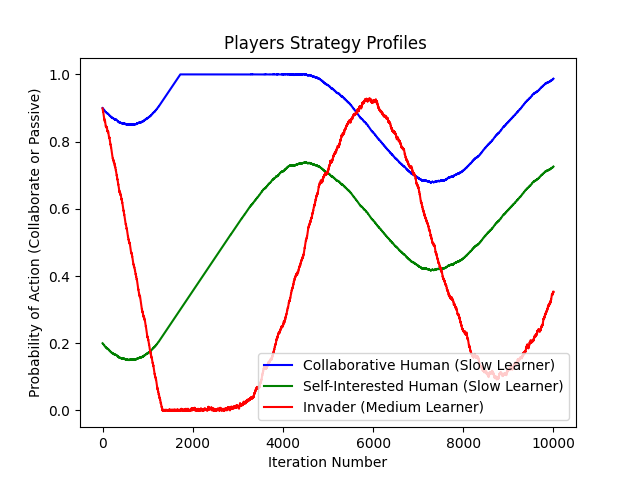
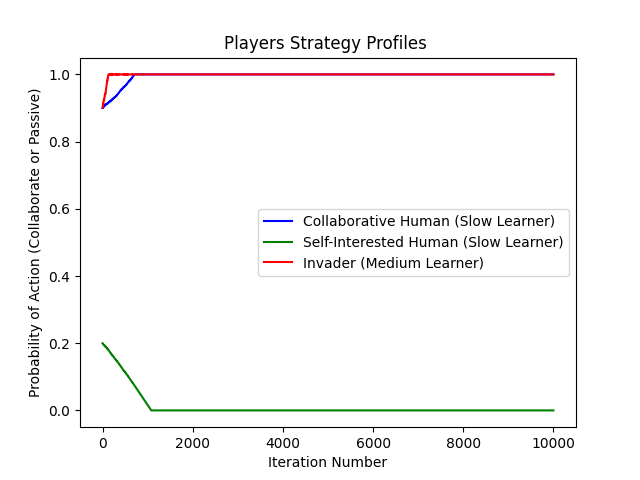
Update images

diff --git a/Population-Game.py b/Population-Game.py
@@ -9,23 +9,14 @@ from Classes.InvaderGamePayoffMatrix import InvaderGamePayoffMatrix
 from Classes.PlayerInformation import PlayerInformation
 
 # Human Focused Variables
-#VALUE = 15 # Resource gain
-#COST = 10 # Cost of Self Interest
-#SYNERGY = 1.5 # Synergy Factor
-
-## Invader Focused Variables
-#DAMAGE = 20 # Damage from Invader
-#ATTACK = 5 # Cost of Attacking from Invader
-
-# Human Focused Variables
-VALUE = 10 # Resource gain
-COST = 15 # Cost of Self Interest
+VALUE = 15 # Resource gain
+COST = 10 # Cost of Self Interest
 SYNERGY = 1.5 # Synergy Factor
 
 # Invader Focused Variables
-DAMAGE = 5  # Damage from Invader
-ATTACK = 10 # Cost of Attacking from Invader
-BLOCK = 4 # Blocked Damage
+DAMAGE = 20 # Damage from Invader
+ATTACK = 5 # Cost of Attacking from Invader
+BLOCK = 2
 
 # Simulation Settings 
 NUM_ITERATIONS = 10_000
@@ -58,6 +49,26 @@ CASES = [
 "human_self_interested":1,
 "invader_passive":1,
 "invader_active":1
+}, 
+{"human_collab": 1,
+"human_self_interested":1,
+"invader_passive":10,
+"invader_active":1
+}, 
+{"human_collab": 1,
+"human_self_interested":1,
+"invader_passive":100,
+"invader_active":1
+}, 
+{"human_collab": 1,
+"human_self_interested":1,
+"invader_passive":1,
+"invader_active":10
+}, 
+{"human_collab": 1,
+"human_self_interested":1,
+"invader_passive":1,
+"invader_active":100
 }, 
 ] 
 
@@ -137,7 +148,7 @@ def main():
        plt.plot(population_df['iteration'], population_df['invader_passive'], label = f"Invader-Passive End: {round(population_df['invader_passive'].iloc[0], 2)}", color = 'orange')
        plt.plot(population_df['iteration'], population_df['invader_active'], label = f"Invader-Active End: {round(population_df['invader_active'].iloc[0], 2)}", color = 'red')
        # Add title and labels
-       plt.title(f'Inital State: H_C:{human_collaborate}-H_S:{human_self_interested}-I_P:{invader_passive}-I_A{invader_active}')
+       plt.title(f'Inital State: H_C:{human_collaborate} H_S:{human_self_interested} I_P:{invader_passive} I_A{invader_active}')
        plt.xlabel('Iteration Number')
        plt.ylabel(f'Proportion of Population')
        plt.legend()

diff --git a/Classes/InvaderGamePayoffMatrix.py b/Classes/InvaderGamePayoffMatrix.py
@@ -53,9 +53,9 @@ class InvaderGamePayoffMatrix:
         self.game['s-c-a'] = [self.value - self.damage,
                               -self.damage,
                               -1 * (self.value - (2* self.damage) + self.attack)]
-        self.game['s-s-a'] = [((self.value - self.cost)/2) - self.damage,
-                              ((self.value - self.cost)/2) - self.damage,
-                              -1 *(self.value - self.cost - (2*self.damage)  + self.attack)]
+        self.game['s-s-a'] = [self.value/2 - self.cost - self.damage,
+                              self.value/2 - self.cost - self.damage,
+                              -1 *(self.value - (2* self.cost) - (2*self.damage)  + self.attack)]
 
     def get_payoffs(self, human1, human2, invader):
         '''
